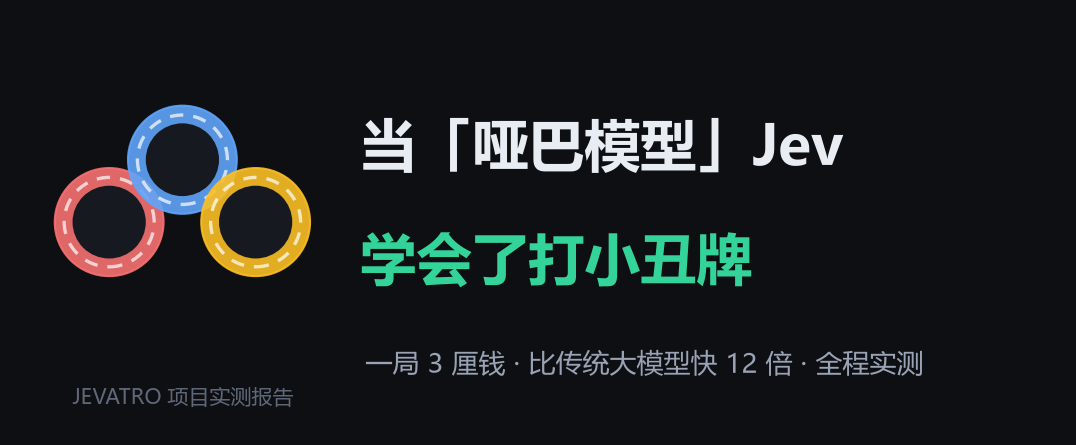
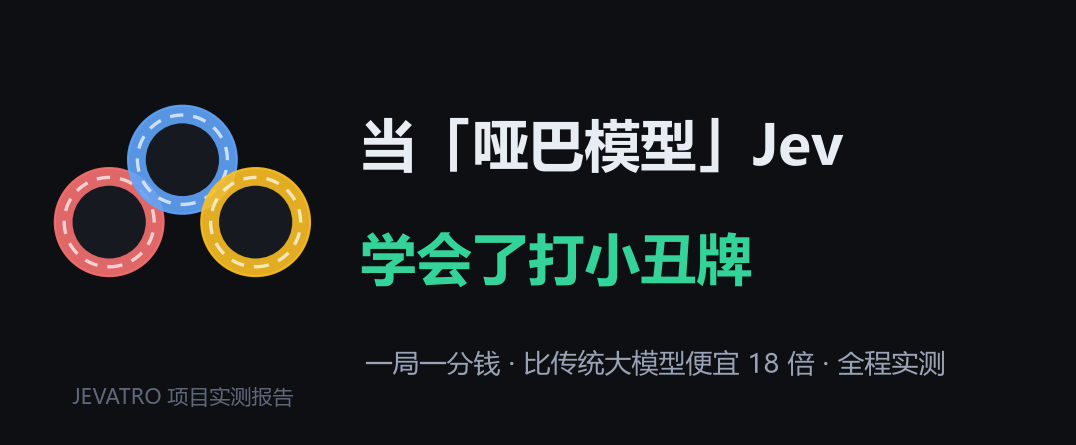
文章: 技术向改版——新增Jev模型介绍节(非自回归/RLCD/实测API响应)+题目构造代码片段+实测成本核账(3厘→一分钱)+新增原理图12号

Changed region(s): [[0.3987, 0.7888, 0.8894, 0.8472]]

diff --git a/jevatro/gen_article_imgs.py b/jevatro/gen_article_imgs.py
@@ -17,7 +17,7 @@ FONT_B = font_manager.FontProperties(fname=r"C:\Windows\Fonts\msyhbd.ttc")
 plt.rcParams["font.family"] = FONT.get_name()
 plt.rcParams["axes.unicode_minus"] = False
 
-OUT = Path(__file__).parent / "article_imgs"
+OUT = Path(__file__).parent.parent / "article_imgs"   # 项目根目录（文章引用处）
 OUT.mkdir(exist_ok=True)
 
 BG, CARD, LINE = "#0d0f12", "#161a20", "#2a303c"
@@ -53,7 +53,7 @@ for (cx, cy, col) in ((0.9, 2.0, RED), (1.6, 2.6, BLUE), (2.3, 2.0, "#fbbf24")):
     ax.add_patch(plt.Circle((cx, cy), 0.43, fill=False, ls=(0, (4, 3)), color="white", lw=1.6, alpha=0.7))
 ax.text(3.3, 2.55, "当「哑巴模型」Jev", fontsize=27, color="#e8ecf3", fontproperties=FONT_B)
 ax.text(3.3, 1.45, "学会了打小丑牌", fontsize=27, color=GREEN, fontproperties=FONT_B)
-ax.text(3.35, 0.55, "一局 3 厘钱 · 比传统大模型快 12 倍 · 全程实测", fontsize=13,
+ax.text(3.35, 0.55, "一局一分钱 · 比传统大模型便宜 18 倍 · 全程实测", fontsize=13,
         color=MUTED, fontproperties=FONT)
 ax.text(0.55, 0.25, "JEVATRO 项目实测报告", fontsize=10, color="#5f6878", fontproperties=FONT)
 save(fig, "01_封面.png")
@@ -90,15 +90,17 @@ axes[0].text(0.02, 0.9, "Jev 快 12 倍", transform=axes[0].transAxes,
              color=GREEN, fontsize=13, fontproperties=FONT_B)
 axes[0].grid(axis="y", color=LINE, alpha=0.5)
 
-cost = [0.0007 * 7.2, 0, 0.02]      # 折人民币/局
+cost = [0.0135, 0, 0.156]      # 实测人民币/局（COST9 全记账局 + 9 局回溯均值）
 b = axes[1].bar(names, [max(c, 0.0001) for c in cost],
                 color=[C_JEV, C_NAIVE, C_LLM], width=0.55)
 axes[1].set_yscale("log")
-style_ax(axes[1], "单局决策成本（人民币，对数轴）")
-labels = ["¥0.005(3厘)", "¥0(免费档)", "¥0.02"]
+style_ax(axes[1], "单局决策成本（人民币，对数轴，实测）")
+labels = ["¥0.014(实测)", "¥0(免费档)", "¥0.156(实测)"]
 for bb, v, lb in zip(b, cost, labels):
     axes[1].text(bb.get_x() + bb.get_width() / 2, max(v, 0.0001) * 1.3, lb,
                  ha="center", color="#e8ecf3", fontsize=11, fontproperties=FONT_B)
+axes[1].text(0.02, 0.88, "Jev 便宜 18 倍（官方价核账）", transform=axes[1].transAxes,
+             color=GREEN, fontsize=12, fontproperties=FONT_B)
 axes[1].grid(axis="y", color=LINE, alpha=0.5)
 fig.suptitle("经济性：高频决策位的碾压优势", fontsize=15,
              color="#e8ecf3", fontproperties=FONT_B, y=1.04)
@@ -245,5 +247,61 @@ for i, (x, t, d, col) in enumerate(ms):
 ax.text(0.6, 4.6, "8 轮迭代 · 130+ 局实测 · 17 个提交", fontsize=15,
         color="#e8ecf3", fontproperties=FONT_B)
 save(fig, "08_时间线.png")
+
+# ============ 12 题型与原理（传统LLM vs Jev） ============
+fig, ax = plt.subplots(figsize=(11, 5.4))
+ax.set_xlim(0, 11); ax.set_ylim(0, 5.6); ax.axis("off"); ax.set_facecolor(CARD)
+
+def rbox(x, y, w, h, text, fc, ec, tc, fs=10.5, bold=False):
+    ax.add_patch(FancyBboxPatch((x, y), w, h, boxstyle="round,pad=0.08",
+                                fc=fc, ec=ec, lw=1.4))
+    ax.text(x + w / 2, y + h / 2, text, ha="center", va="center",
+            color=tc, fontsize=fs, fontproperties=FONT_B if bold else FONT)
+
+# —— 上半：传统 LLM 链路 ——
+rbox(0.25, 4.45, 1.9, 0.8, "状态文本\n+ 指令", BG, LINE, MUTED, 10)
+rbox(2.55, 4.45, 2.7, 0.8, "自回归生成\n逐 token 吐文本", "#1c1418", "#7f2d3a", "#f0b9c0", 10.5)
+rbox(5.65, 4.45, 2.0, 0.8, "JSON 容错解析\n正则+重试", "#1c1418", "#7f2d3a", "#f0b9c0", 10)
+rbox(8.0, 4.45, 2.7, 0.8, "结构化决策\n~30% 解析失败回退", "#241418", "#a13040", RED, 10)
+for x0, x1 in ((2.15, 2.55), (5.25, 5.65), (7.65, 8.0)):
+    ax.add_patch(FancyArrowPatch((x0, 4.85), (x1, 4.85), arrowstyle="-|>",
+                                 mutation_scale=14, color=MUTED, lw=1.3))
+ax.text(0.25, 5.35, "传统 LLM：把判断题当作文题", fontsize=12.5, color="#f0b9c0",
+        fontproperties=FONT_B)
+
+# —— 下半：Jev 链路 ——
+rbox(0.25, 2.6, 1.9, 0.8, "状态文本\n+ 题目字典", BG, LINE, MUTED, 10)
+rbox(2.55, 2.6, 2.7, 0.8, "非自回归单次前向\n无文本生成过程", "#0f1e18", "#1f6b4a", "#a9e8c8", 10.5)
+rbox(5.65, 2.6, 2.0, 0.8, "类型化输出\nchoice / score / noul", "#0f1e18", "#1f6b4a", "#a9e8c8", 10)
+rbox(8.0, 2.6, 2.7, 0.8, "代码直接分支\n0 解析失败", "#0f2418", "#2f9e63", GREEN, 10)
+for x0, x1 in ((2.15, 2.55), (5.25, 5.65), (7.65, 8.0)):
+    ax.add_patch(FancyArrowPatch((x0, 3.0), (x1, 3.0), arrowstyle="-|>",
+                                 mutation_scale=14, color=MUTED, lw=1.3))
+ax.text(0.25, 3.5, "Jev (System One)：把判断题当判断题", fontsize=12.5, color="#a9e8c8",
+        fontproperties=FONT_B)
+
+# —— 三种题型卡 ——
+cards = [
+    ("Choice 选择题", "候选中选一个\n附概率分布与置信度", 'choice="a"\nconfidence=0.63\nprobabilities={a:0.63,...}'),
+    ("Score 打分题", "按等级量表 0-4 打分\n附置信度", 'score=2\nconfidence=0.71'),
+    ("Noul 判断题", "是非概率 0-1\n附置信度", 'noul=0.51\nconfidence=0.55'),
+]
+for i, (t, d, code) in enumerate(cards):
+    x = 0.35 + i * 3.6
+    ax.add_patch(FancyBboxPatch((x, 0.25), 3.3, 1.9, boxstyle="round,pad=0.1",
+                                fc="#11151b", ec=LINE, lw=1.4))
+    ax.text(x + 1.65, 1.85, t, fontsize=12, color="#e8ecf3", fontproperties=FONT_B,
+            ha="center")
+    ax.text(x + 1.65, 1.28, d, fontsize=9.5, color=MUTED, fontproperties=FONT,
+            ha="center", va="center")
+    ax.add_patch(FancyBboxPatch((x + 0.25, 0.42), 2.8, 0.62, boxstyle="round,pad=0.06",
+                                fc="#0b0e12", ec="#233043", lw=1))
+    ax.text(x + 1.65, 0.73, code, fontsize=8.2, color="#8fd6b4", ha="center",
+            va="center", fontfamily="monospace", linespacing=1.25)
+ax.text(10.75, 3.0, "响应 JSON 里的真实字段", fontsize=9, color="#5f6878",
+        fontproperties=FONT, rotation=90, va="center")
+fig.suptitle("Jev 原理：不生成文本，直接输出类型化判断（输出免费、构造性无幻觉）",
+             fontsize=14.5, color="#e8ecf3", fontproperties=FONT_B, y=0.99)
+save(fig, "12_题型与原理.png")
 
 print("ALL CHARTS DONE")
